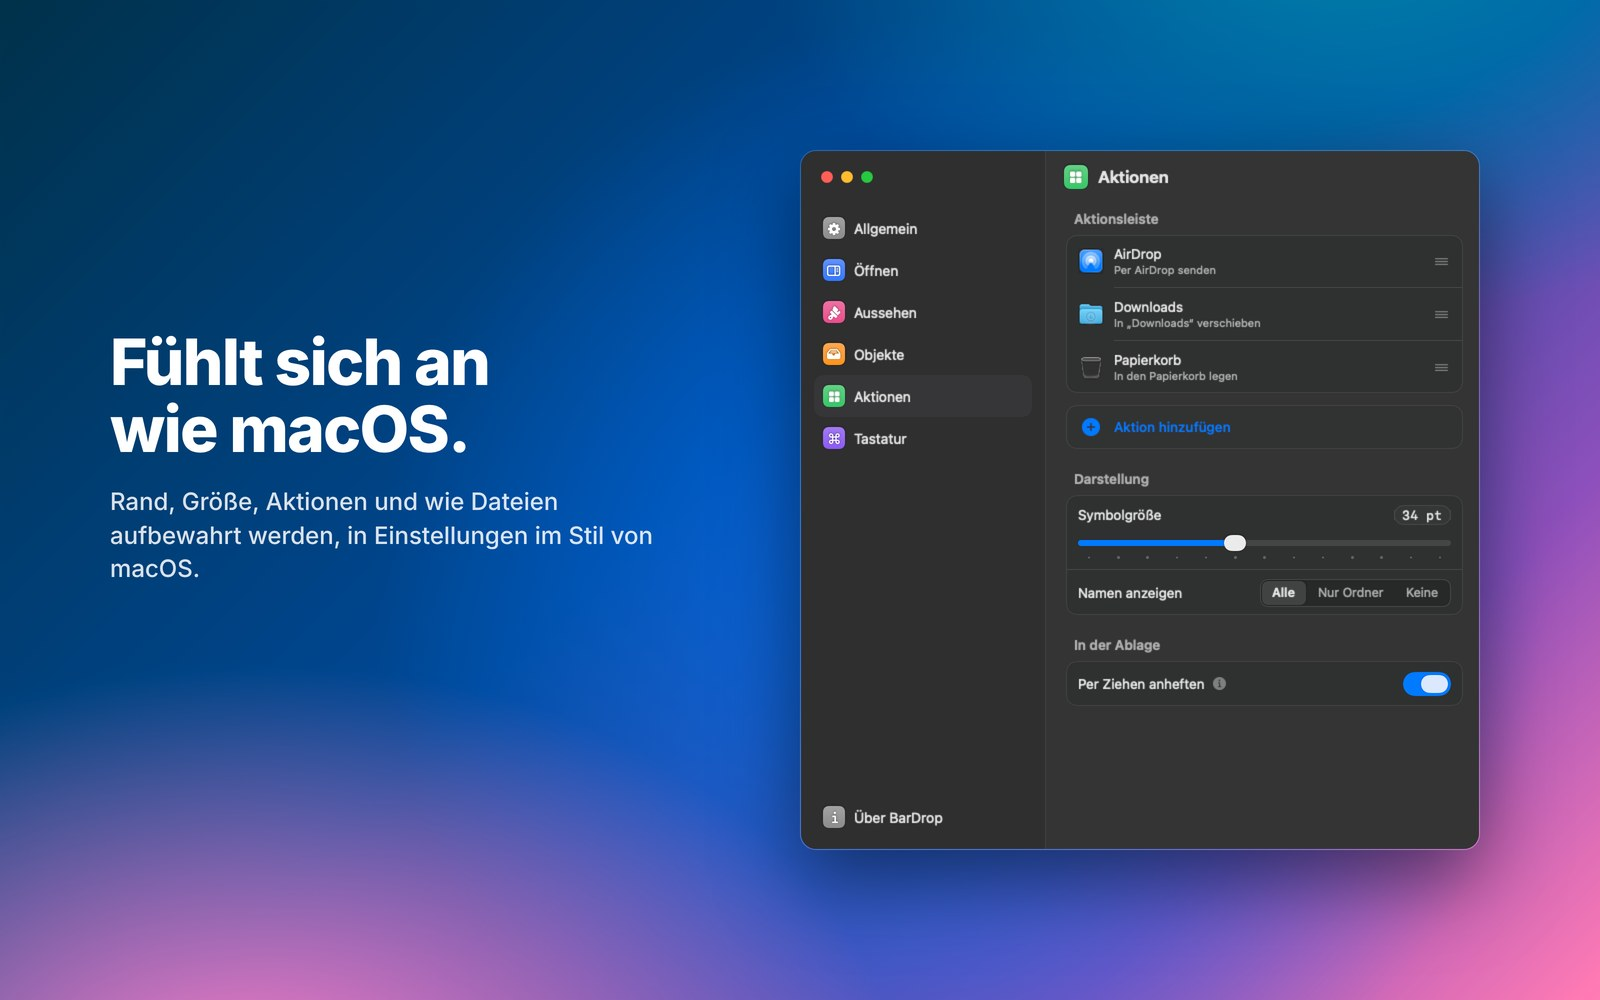
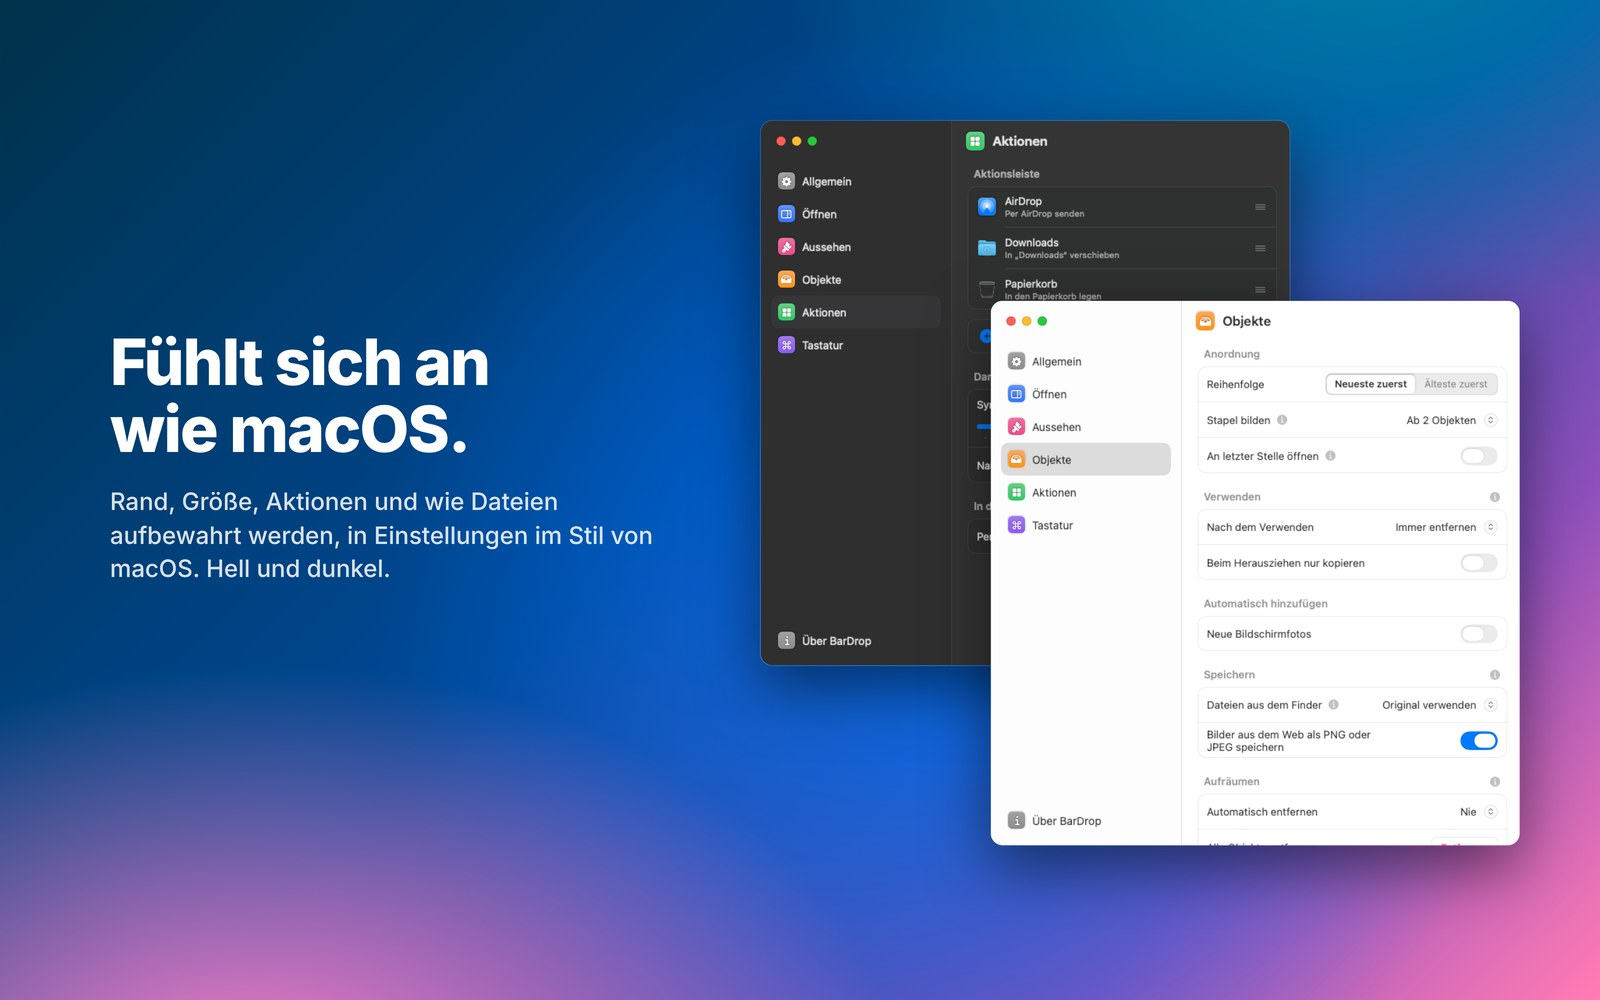
README: Einstellungsfenster hell und dunkel überlappend [skip release]
Claude-Session: https://claude.ai/code/session_01Q57yxyjdU7wxBd8Y5q7yXG

Changed region(s): [[0.4688, 0.093, 0.9688, 0.93], [0.125, 0.558, 0.25, 0.589]]

diff --git a/scripts/media/gif2.js b/scripts/media/gif2.js
@@ -1,0 +1,142 @@
+// Zweites Vorschau-GIF: drei Fotos als Stapel ablegen, eines auf eine Folie ziehen, eine Notiz
+// in den Papierkorb und alles wieder zurück. Am Ende ist alles exakt wie am Anfang (Loop).
+const C=(x)=>Math.max(0,Math.min(1,x)), lerp=(a,b,t)=>a+(b-a)*t;
+const io=(t)=>t<.5?4*t*t*t:1-Math.pow(-2*t+2,3)/2;
+const out=(t)=>1-Math.pow(1-t,3);
+const back=(t)=>{const c1=1.2,c3=c1+1;return 1+c3*Math.pow(t-1,3)+c1*Math.pow(t-1,2)};
+const seg=(t,a,b)=>C((t-a)/(b-a));
+const $=(id)=>document.getElementById(id);
+function path(t,keys){
+  if(t<=keys[0][0])return keys[0].slice(1,3);
+  for(let i=1;i<keys.length;i++){if(t<=keys[i][0]){const[a,x0,y0]=keys[i-1],[b,x1,y1,arc=0]=keys[i];const u=io(C((t-a)/(b-a)));
+    const bow=Math.sin(u*Math.PI)*arc;return[lerp(x0,x1,u),lerp(y0,y1,u)-bow]}}
+  return keys[keys.length-1].slice(1,3)}
+
+// Ablage: Aufnahme 440×600 pt (doppelt gerendert), gezeigt 374×510 ab (506,30)
+const SX=374/880, OX=506, OY=30;
+const at=(x,y)=>[OX+x*SX, OY+y*SX];          // Pixel der Aufnahme → Seite
+const BODY_LEFT=at(280,0)[0];
+const SLOT=window.SLOTS;                      // gemessen, siehe unten
+const ICON={d1:[72,118],d2:[72,206],d3:[72,294]};
+const PH=[505,223];                           // Bildfeld auf der Folie
+const DUR=16.5;
+
+const P=[[0,430,470],[0.5,430,470],[0.9,30,80,20],[1.8,118,338],[2.0,118,338],[2.25,74,206,10],[2.35,74,206],
+  [3.55,858,290,40],[3.8,858,290],[4.35,SLOT.s1[0],SLOT.s1[1]+2,15],[4.6,SLOT.s1[0],SLOT.s1[1]+2],
+  [4.8,SLOT.s2[0],SLOT.s2[1]+2,8],[4.9,SLOT.s2[0],SLOT.s2[1]+2],[6.15,PH[0],PH[1],30],[6.45,PH[0],PH[1]],
+  [7.2,872,285,25],[7.95,SLOT.s3[0],SLOT.s3[1]+2,20],[8.45,SLOT.s3[0],SLOT.s3[1]+2],[9.25,SLOT.trash[0],SLOT.trash[1],15],[9.5,SLOT.trash[0],SLOT.trash[1]],
+  [10.6,720,330,15],[11.0,SLOT.s1[0],SLOT.s1[1]+2,10],[11.5,SLOT.s1[0],SLOT.s1[1]+2],[12.3,700,340,10],
+  [12.6,600,336],[13.3,420,330,20],[14.4,420,330],[15.1,140,440,25],[15.4,140,440],[16.2,430,470,15],[16.5,430,470]];
+
+// Zeitpunkt, an dem der Zeiger beim Herausziehen die Ablage verlässt: sie schließt sofort
+let LEAVE=5.5; for(let t=4.9;t<6.2;t+=1/120){if(path(t,P)[0]<BODY_LEFT){LEAVE=t;break}}
+
+function shelfImage(t){
+  if(t<3.6) return 'g0d';
+  if(t<4.5) return 'g1';
+  if(t<4.85) return 'g2';
+  if(t<7) return 'g2s';
+  if(t<8.4) return 'g4';
+  if(t<9.0) return 'g4n';
+  if(t<9.3) return 'g4t';
+  if(t<9.9) return 'g5';
+  if(t<11.3) return 'g4';
+  if(t<12.0) return 'g6';
+  return 'g0';
+}
+function openness(t){
+  // Ziehen vom Schreibtisch: öffnet, sobald die Fotos nah genug am Rand sind
+  if(t>=3.2&&t<LEAVE) return back(seg(t,3.2,3.48));
+  if(t>=LEAVE&&t<LEAVE+0.3) return 1-io(seg(t,LEAVE,LEAVE+0.22));
+  // Zeiger am Rand: Streifen, nach der Wartezeit offen
+  if(t>=7.55&&t<12.9) return back(seg(t,7.55,7.83));
+  if(t>=12.9&&t<13.2) return 1-io(seg(t,12.9,13.12));
+  return 0;
+}
+function strip(t){
+  if(t>=2.4&&t<3.4) return seg(t,2.4,2.55)*(1-seg(t,3.25,3.4));
+  if(t>=7.22&&t<7.75) return seg(t,7.22,7.32)*(1-seg(t,7.6,7.75));
+  return 0;
+}
+function keys(t){
+  const k=[[9.6,10.3,['⌘','Z']],[11.05,11.6,['⌘']],[11.75,12.25,['⌫']],[13.75,14.35,['⌘','Z']]];
+  for(const [a,b,v] of k){ if(t>=a-0.12&&t<b+0.12) return [v, seg(t,a-0.12,a)*(1-seg(t,b,b+0.12))]; }
+  return [[],0];
+}
+let lastKeys='';
+window.render=function(t){
+  t=((t%DUR)+DUR)%DUR;
+  const [px,py]=path(t,P);
+  const pt=$('pointer'); pt.style.left=(px-2)+'px'; pt.style.top=(py-2)+'px';
+
+  // Lasso auf dem Schreibtisch
+  const la=$('lasso');
+  if(t>=0.9&&t<1.85){const [x0,y0]=[30,80]; la.style.display='block';
+    la.style.left=Math.min(x0,px)+'px'; la.style.top=Math.min(y0,py)+'px';
+    la.style.width=Math.abs(px-x0)+'px'; la.style.height=Math.abs(py-y0)+'px';} else la.style.display='none';
+  // Markierung: blau solange der Finder vorn ist, grau wenn die Präsentation vorn ist
+  const finderFront = t<13.45 || t>=15.3;
+  for(const id of ['d1','d2','d3']){
+    const el=$(id); const y=ICON[id][1];
+    let sel = (t>=0.9&&t<1.85) ? (py>y-14) : (t>=1.85&&t<15.3);
+    el.classList.toggle('sel', sel&&finderFront); el.classList.toggle('dim', sel&&!finderFront);
+  }
+  $('app').textContent = finderFront ? 'Finder' : 'Present';
+  $('m4').textContent = finderFront ? 'Go' : 'Insert';
+  $('win').classList.toggle('inactive', finderFront);
+
+  // Gezogenes: drei Fotos vom Schreibtisch, ein Foto aus dem Stapel, die Notiz
+  const g=$('ghost'); let html='', go=0, gx=px, gy=py;
+  if(t>=2.35&&t<3.75){
+    let u=0; if(t>=3.6) u=out(seg(t,3.6,3.75));
+    const tx=lerp(px,SLOT.s1[0],u), ty=lerp(py,SLOT.s1[1],u), sc=lerp(1,.6,u);
+    go=.8*(1-seg(t,3.66,3.75));
+    for(const [id,n] of [['d1',1],['d2',2],['d3',3]]){
+      const dx=(ICON[id][0]-ICON.d2[0])*(1-u), dy=(ICON[id][1]-ICON.d2[1])*(1-u);
+      html+=`<div style="position:absolute;left:${dx-25*sc}px;top:${dy-19*sc}px;width:${50*sc}px;height:${37.5*sc}px;background:url(GIF2_Sunset_${n}.jpg) center/cover;box-shadow:0 2px 6px rgba(0,0,0,.4)"></div>`;
+    }
+    html+=`<div style="position:absolute;left:${20*sc}px;top:${-28*sc}px;min-width:18px;height:18px;border-radius:9px;background:#ff3b30;color:#fff;font-size:11px;font-weight:700;display:flex;align-items:center;justify-content:center;padding:0 5px;opacity:${1-u}">3</div>`;
+    gx=tx; gy=ty;
+  } else if(t>=4.9&&t<6.35){
+    let u=0; if(t>=6.2) u=out(seg(t,6.2,6.35));
+    go=.85*(1-seg(t,6.25,6.35));
+    const sc=lerp(1,2.2,u);
+    html=`<div style="position:absolute;left:${-27*sc}px;top:${-20*sc}px;width:${54*sc}px;height:${40*sc}px;background:url(GIF2_Sunset_2.jpg) center/cover;border-radius:3px;box-shadow:0 3px 8px rgba(0,0,0,.45)"></div>`+
+      (u<0.01?`<div style="position:absolute;left:-36px;top:24px;width:72px;text-align:center"><span style="font-size:10.5px;font-weight:600;color:#fff;background:#2f6ff5;padding:1px 5px;border-radius:4px">Sunset 2.jpg</span></div>`:'');
+    gx=lerp(px,PH[0],u); gy=lerp(py,PH[1],u);
+  } else if(t>=8.5&&t<9.38){
+    let u=0; if(t>=9.3) u=out(seg(t,9.3,9.38));
+    go=.85*(1-u);
+    html=`<div style="position:absolute;left:-29px;top:-23px;width:58px;height:46px;background:url(GIF2_4.png) ${-(SLOT.s3[0]-OX)/SX*SX*2+29*2 - 0}px 0/748px 1020px"></div>`;
+    html=`<div style="position:absolute;left:-29px;top:-23px;width:58px;height:46px;background-image:url(GIF2_4.png);background-size:${880*SX}px ${1200*SX}px;background-position:${-(SLOT.s3[0]-OX-29)}px ${-(SLOT.s3[1]-OY-23)}px;transform:scale(${1-u*.6})"></div>`;
+  }
+  g.innerHTML=html; g.style.opacity=go; g.style.left=gx+'px'; g.style.top=gy+'px';
+
+  // Ablage
+  const o=Math.max(0,openness(t)), sh=$('shelf');
+  sh.style.opacity=C(o*2.2); sh.style.transform=`scale(${lerp(.04,1,o)},${lerp(.16,1,o)})`;
+  sh.style.filter=`blur(${(1-C(o))*6}px)`;
+  const img=shelfImage(t);
+  for(const el of sh.querySelectorAll('img')) el.style.opacity = el.id===img ? 1 : 0;
+  // Herausgezogenes bleibt an seinem Platz blass, solange die Ablage es zeigt
+  const dim=$('dim'); let dimAt=null;
+  if(t>=4.9&&t<LEAVE+0.3) dimAt=SLOT.s2; if(t>=8.5&&t<9.3) dimAt=SLOT.s3;
+  if(dimAt){dim.style.opacity=o; dim.style.left=(dimAt[0]-29)+'px'; dim.style.top=(dimAt[1]-23)+'px'} else dim.style.opacity=0;
+  const s=$('strip'), st=strip(t); s.style.opacity=st; s.style.width=(6*st)+'px';
+
+  // Folie: Bild nach dem Ablegen, ⌘Z in der Präsentation nimmt es wieder weg
+  let ph=0; if(t>=6.25&&t<14.0) ph=seg(t,6.25,6.4)*(1-seg(t,14.0,14.12));
+  $('photo').style.opacity=ph; $('thph').style.opacity=ph;
+  $('ph').classList.toggle('hot', t>=5.85&&t<6.25);
+  $('ph').style.opacity=1-ph;
+
+  const [kv,ko]=keys(t); const ks=$('keys'); const kk=kv.join('|');
+  if(kk!==lastKeys){ks.innerHTML=kv.map(k=>`<span>${k}</span>`).join(''); lastKeys=kk;}
+  ks.style.opacity=ko;
+  // Klicks: kurzes Eindrücken des Zeigers
+  const clicks=[2.3,4.45,4.85,8.45,11.3,13.4,15.3];
+  let press=0; for(const c of clicks) if(t>=c&&t<c+0.12) press=1;
+  pt.style.transform=`scale(${press?0.88:1})`;
+};
+window.DURATION=DUR;
+render(0);

diff --git a/scripts/media/gif2.html b/scripts/media/gif2.html
@@ -1,0 +1,85 @@
+<html><head><style>
+*{margin:0;padding:0;box-sizing:border-box}
+html,body{width:880px;height:550px;overflow:hidden;font-family:Inter,sans-serif;-webkit-font-smoothing:antialiased}
+.wall{position:absolute;inset:0;background:
+ radial-gradient(700px 500px at 15% 110%, #ff8a6b 0%, rgba(255,138,107,0) 55%),
+ radial-gradient(600px 450px at 85% -10%, #3a5bff 0%, rgba(58,91,255,0) 60%),
+ radial-gradient(520px 520px at 60% 60%, #8a3ffc 0%, rgba(138,63,252,0) 65%),
+ linear-gradient(135deg,#1a1f6b 0%,#5b2ca8 45%,#c2477d 80%,#f08a5d 100%)}
+.menubar{position:absolute;top:0;left:0;right:0;height:24px;background:rgba(20,10,40,.3);color:#fff;font-size:11.5px;font-weight:500;display:flex;align-items:center;padding:0 14px;gap:16px;z-index:5}
+.menubar b{font-weight:700}.menubar .r{margin-left:auto}
+.icon{position:absolute;display:flex;flex-direction:column;align-items:center;gap:4px;width:96px;transform:translate(-50%,-50%)}
+.icon .im{width:56px;height:42px;padding:3px;border-radius:5px;display:flex;align-items:center;justify-content:center}
+.icon .im img{width:50px;height:37.5px;display:block;box-shadow:0 1px 3px rgba(0,0,0,.4)}
+.icon .lb{font-size:10.5px;font-weight:600;color:#fff;text-shadow:0 1px 3px rgba(0,0,0,.6);padding:1px 5px;border-radius:4px;white-space:nowrap}
+.icon.sel .lb{background:#2f6ff5;text-shadow:none}
+.icon.sel .im{background:rgba(255,255,255,.22)}
+.icon.dim .lb{background:rgba(160,160,170,.55);text-shadow:none}
+.icon.dim .im{background:rgba(255,255,255,.14)}
+#lasso{position:absolute;border:1px solid rgba(255,255,255,.85);background:rgba(255,255,255,.14);display:none}
+/* Erfundene Präsentations-App */
+#win{position:absolute;left:200px;top:62px;width:400px;height:292px;border-radius:11px;background:#1e1e20;box-shadow:0 22px 50px rgba(0,0,0,.45),0 0 0 .5px rgba(0,0,0,.6),inset 0 0 0 .5px rgba(255,255,255,.14);overflow:hidden;color:#e8e8ed}
+#win .top{height:38px;display:flex;align-items:center;padding:0 12px;gap:7px;background:#2a2a2d;border-bottom:1px solid rgba(0,0,0,.5)}
+#win .tl{width:11px;height:11px;border-radius:50%}
+#win .ttl{flex:1;text-align:center;font-size:11.5px;font-weight:600;margin-right:46px}
+#win.inactive .tl{background:#4a4a4d!important}
+#win.inactive .ttl{color:#8e8e93}
+#win .side{position:absolute;left:0;top:38px;bottom:0;width:78px;background:#252528;border-right:1px solid rgba(0,0,0,.4);padding:10px 9px;display:flex;flex-direction:column;gap:9px}
+#win .th{height:34px;border-radius:3px;background:#fff;position:relative;overflow:hidden;box-shadow:0 0 0 1px rgba(255,255,255,.08)}
+#win .th.on{box-shadow:0 0 0 2px #2f6ff5}
+#win .th .t{position:absolute;left:5px;top:5px;width:26px;height:3px;background:#1d1d1f;border-radius:1px}
+#win .th .p{position:absolute;right:5px;top:8px;width:22px;height:16px;border:1px dashed #c7c7cc;border-radius:2px}
+#win .th .ph{position:absolute;right:5px;top:8px;width:22px;height:16px;border-radius:2px;background-size:cover;background-position:center;opacity:0}
+#win .stage{position:absolute;left:78px;top:38px;right:0;bottom:0;display:flex;align-items:center;justify-content:center;background:#1a1a1c}
+#slide{width:292px;height:164px;background:#fff;border-radius:2px;position:relative;box-shadow:0 4px 14px rgba(0,0,0,.45);color:#1d1d1f}
+#slide h2{position:absolute;left:18px;top:22px;font-size:17px;font-weight:700;letter-spacing:-.2px}
+#slide .sub{position:absolute;left:18px;top:47px;font-size:9px;color:#6e6e73}
+#slide .ln{position:absolute;left:18px;height:4px;border-radius:2px;background:#e5e5ea}
+#ph{position:absolute;right:16px;top:30px;width:128px;height:96px;border:1.5px dashed #c7c7cc;border-radius:4px;display:flex;flex-direction:column;align-items:center;justify-content:center;gap:4px;font-size:8.5px;color:#8e8e93}
+#ph.hot{border-color:#2f6ff5;background:rgba(47,111,245,.08);color:#2f6ff5}
+#photo{position:absolute;right:16px;top:30px;width:128px;height:96px;border-radius:2px;background-size:cover;background-position:center;opacity:0}
+/* Ablage */
+#shelf{position:absolute;right:0;top:30px;width:374px;height:510px;transform-origin:100% 50%;z-index:3}
+#shelf img{position:absolute;inset:0;width:100%;height:100%;opacity:0}
+#strip{position:absolute;right:0;width:7px;height:68px;background:#000;border-radius:6px 0 0 6px;top:251px;box-shadow:0 0 0 1px rgba(255,255,255,.2);z-index:2}
+#dim{position:absolute;width:58px;height:46px;border-radius:6px;background:rgba(0,0,0,.62);opacity:0;z-index:4}
+#ghost{position:absolute;z-index:6;pointer-events:none}
+#pointer{position:absolute;width:20px;height:28px;z-index:8}
+#keys{position:absolute;left:50%;bottom:26px;transform:translateX(-50%);display:flex;gap:6px;z-index:9;opacity:0}
+#keys span{min-width:34px;height:34px;padding:0 9px;border-radius:8px;background:rgba(30,30,34,.82);color:#fff;font-size:16px;font-weight:600;display:flex;align-items:center;justify-content:center;box-shadow:0 0 0 .5px rgba(255,255,255,.25),0 6px 16px rgba(0,0,0,.35)}
+</style></head><body>
+<div class="wall"></div>
+<div class="menubar"><b id="app">Finder</b><span>File</span><span>Edit</span><span>View</span><span id="m4">Go</span><span>Window</span><span>Help</span><span class="r">9:41</span></div>
+
+<div class="icon" id="d1" style="left:72px;top:118px"><div class="im"><img src="GIF2_Sunset_1.jpg"></div><div class="lb">Sunset 1.jpg</div></div>
+<div class="icon" id="d2" style="left:72px;top:206px"><div class="im"><img src="GIF2_Sunset_2.jpg"></div><div class="lb">Sunset 2.jpg</div></div>
+<div class="icon" id="d3" style="left:72px;top:294px"><div class="im"><img src="GIF2_Sunset_3.jpg"></div><div class="lb">Sunset 3.jpg</div></div>
+<div id="lasso"></div>
+
+<div id="win" class="inactive">
+  <div class="top"><span class="tl" style="background:#ff5f57"></span><span class="tl" style="background:#febc2e"></span><span class="tl" style="background:#28c840"></span><div class="ttl">Summer Trip</div></div>
+  <div class="side">
+    <div class="th"><div class="t" style="top:13px;left:12px;width:30px;height:4px"></div></div>
+    <div class="th on"><div class="t"></div><div class="p"></div><div class="ph" id="thph" style="background-image:url(GIF2_Sunset_2.jpg)"></div></div>
+    <div class="th"><div class="t"></div></div>
+  </div>
+  <div class="stage"><div id="slide">
+    <h2>Summer Trip</h2><div class="sub">Evenings by the sea</div>
+    <div class="ln" style="top:72px;width:110px"></div><div class="ln" style="top:82px;width:96px"></div><div class="ln" style="top:92px;width:104px"></div>
+    <div id="ph"><svg width="22" height="18" viewBox="0 0 22 18"><rect x="1" y="1" width="20" height="16" rx="2" fill="none" stroke="currentColor" stroke-width="1.4"/><circle cx="15" cy="6" r="2" fill="currentColor"/><path d="M2 15 L8 9 L12 13 L15 10 L20 15" fill="none" stroke="currentColor" stroke-width="1.4" stroke-linejoin="round"/></svg>Drop an image</div>
+    <div id="photo" style="background-image:url(GIF2_Sunset_2.jpg)"></div>
+  </div></div>
+</div>
+
+<div id="strip"></div>
+<div id="shelf">
+  <img id="g0" src="GIF2_0.png"><img id="g0d" src="GIF2_0_drop.png"><img id="g1" src="GIF2_1.png">
+  <img id="g2" src="GIF2_2.png"><img id="g2s" src="GIF2_2_sel.png"><img id="g4" src="GIF2_4.png">
+  <img id="g4n" src="GIF2_4_notes.png"><img id="g4t" src="GIF2_4_trash.png"><img id="g5" src="GIF2_5.png"><img id="g6" src="GIF2_6_sel.png">
+</div>
+<div id="dim"></div>
+<div id="ghost"></div>
+<div id="keys"></div>
+<svg id="pointer" viewBox="0 0 22 30"><path d="M2 2 L2 24 L8 18.5 L12 27 L15.5 25.5 L11.5 17 L19 17 Z" fill="#000" stroke="#fff" stroke-width="1.8" stroke-linejoin="round"/></svg>
+<script src="gif2.js"></script>
+</body></html>

diff --git a/scripts/media/make.py b/scripts/media/make.py
@@ -31,6 +31,6 @@ for lang,t in T.items():
     def window(img,left,top,border):
         return f'<div style="position:absolute;left:{left}px;top:{top}px;width:680px;height:700px;transform:scale(.78);transform-origin:top left;border-radius:16px;overflow:hidden;box-shadow:0 30px 80px rgba(0,0,0,.5);border:1px solid {border}"><img src="{img}" style="width:680px;height:700px;display:block">{lights}</div>'
     # Dunkel hinten, hell davor und leicht versetzt: beide Erscheinungsbilder
-    pages["settings"]=HEAD+'<div class="wall" style="filter:hue-rotate(-50deg)"></div>'+title(t["settings"],330)+window(f"Produkt_Fenster_Aktionen_{lang}.png",760,120,"rgba(255,255,255,.16)")+window(f"Produkt_Fenster_Allgemein_{lang}_hell.png",990,300,"rgba(0,0,0,.18)")+'</body></html>'
+    pages["settings"]=HEAD+'<div class="wall" style="filter:hue-rotate(-50deg)"></div>'+title(t["settings"],330)+window(f"Produkt_Fenster_Aktionen_{lang}.png",760,120,"rgba(255,255,255,.16)")+window(f"Produkt_Fenster_Objekte_{lang}_hell.png",990,300,"rgba(0,0,0,.18)")+'</body></html>'
     for k,v in pages.items():
         open(f"p_{k}_{lang}.html","w").write(v)

diff --git a/README.md b/README.md
@@ -63,7 +63,7 @@ After that, BarDrop keeps itself up to date in the background while you’re not
   <img src="docs/images/hero-en.jpg" width="49%" alt="The shelf open at the right edge of the screen with six files">
   <img src="docs/images/actions-en.jpg" width="49%" alt="A photo dragged onto the Downloads action in the action bar">
   <img src="docs/images/stacks-en.jpg" width="49%" alt="Several files grouped as a stack">
-  <img src="docs/images/settings-en.jpg" width="49%" alt="The Settings window in dark mode">
+  <img src="docs/images/settings-en.jpg" width="49%" alt="The Settings window in light and dark mode">
 </p>
 
 ## Features

diff --git a/docs/README.de.md b/docs/README.de.md
@@ -63,7 +63,7 @@ Danach hält sich BarDrop im Hintergrund selbst aktuell, während du es nicht be
   <img src="images/hero-de.jpg" width="49%" alt="Die Ablage offen am rechten Bildschirmrand mit sechs Dateien">
   <img src="images/actions-de.jpg" width="49%" alt="Ein Foto wird auf die Aktion Downloads in der Aktionsleiste gezogen">
   <img src="images/stacks-de.jpg" width="49%" alt="Mehrere Dateien als Stapel">
-  <img src="images/settings-de.jpg" width="49%" alt="Das Einstellungsfenster im Dunkelmodus">
+  <img src="images/settings-de.jpg" width="49%" alt="Das Einstellungsfenster hell und dunkel">
 </p>
 
 ## Funktionen
